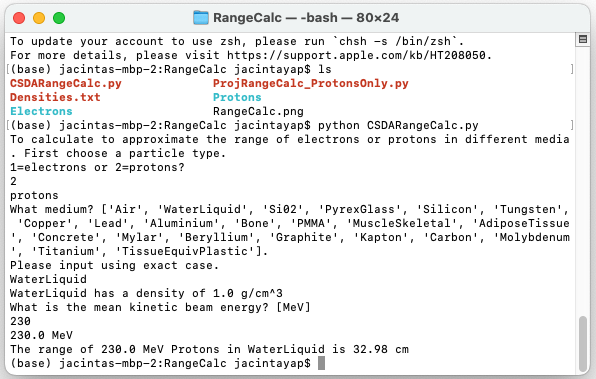
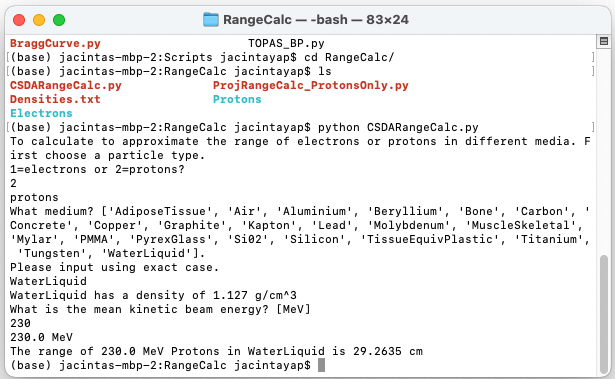
Media now display in alphabetical order

Changed region(s): [[0.0, 0.0, 0.9966, 1.0]]

diff --git a/ProjRangeCalc_ProtonsOnly.py b/ProjRangeCalc_ProtonsOnly.py
@@ -25,6 +25,7 @@ for x in lines:
         Rho.append(x.split(' ')[1])
         rho = [float(i) for i in Rho]
 
+Mat.sort() # Sort Media alphabetically
 # List all media types
 def WhichMedia(): 
     

diff --git a/CSDARangeCalc.py b/CSDARangeCalc.py
@@ -39,7 +39,8 @@ def WhichParticle():
         particle = "Protons"
 
     return particle
- 
+
+Mat.sort() # Sort Media alphabetically
 # List all media types
 def WhichMedia(): 
     
